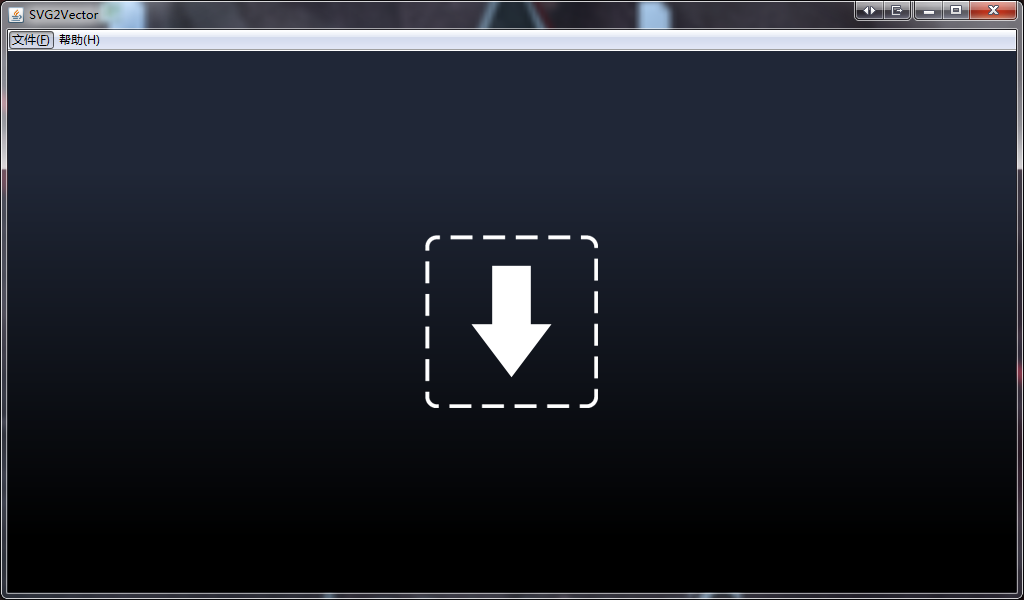
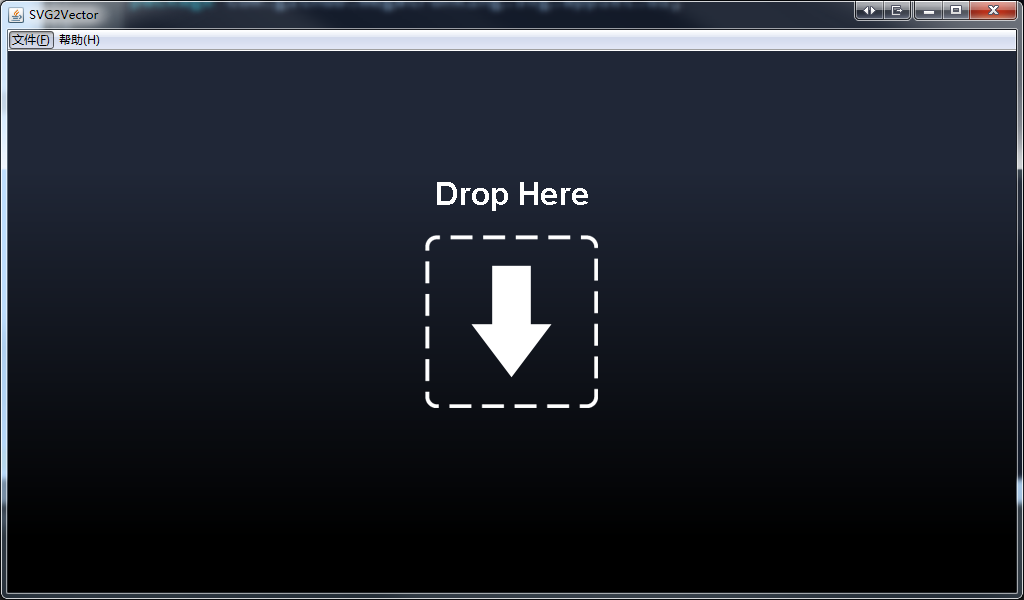
add module cli and applet

diff --git a/svg-vector-applet/src/main/java/com/github/megatronking/svg/applet/ui/OpenFilePanel.java b/svg-vector-applet/src/main/java/com/github/megatronking/svg/applet/ui/OpenFilePanel.java
@@ -2,6 +2,8 @@ package com.github.megatronking.svg.applet.ui;
 
 import com.github.megatronking.svg.applet.graphics.GraphicsUtilities;
 
+import java.awt.Color;
+import java.awt.Font;
 import java.awt.Graphics;
 import java.awt.image.BufferedImage;
 import java.io.IOException;
@@ -10,6 +12,8 @@ import java.net.URL;
 import javax.swing.JComponent;
 
 class OpenFilePanel extends JComponent {
+
+    private static final String DROP_TEXT = "Drop Here";
 
     private BufferedImage dropHere;
 
@@ -32,7 +36,10 @@ class OpenFilePanel extends JComponent {
     protected void paintComponent(Graphics g) {
         int x = (getWidth() - dropHere.getWidth()) / 2;
         int y = (getHeight() - dropHere.getHeight()) / 2;
-
+        g.setFont(new Font("宋体", Font.BOLD, 32));
+        g.setColor(Color.WHITE);
+        int textWidth = g.getFontMetrics().stringWidth(DROP_TEXT);
+        g.drawString(DROP_TEXT, (getWidth() - textWidth) / 2, y - 30);
         g.drawImage(dropHere, x, y, null);
     }
 
